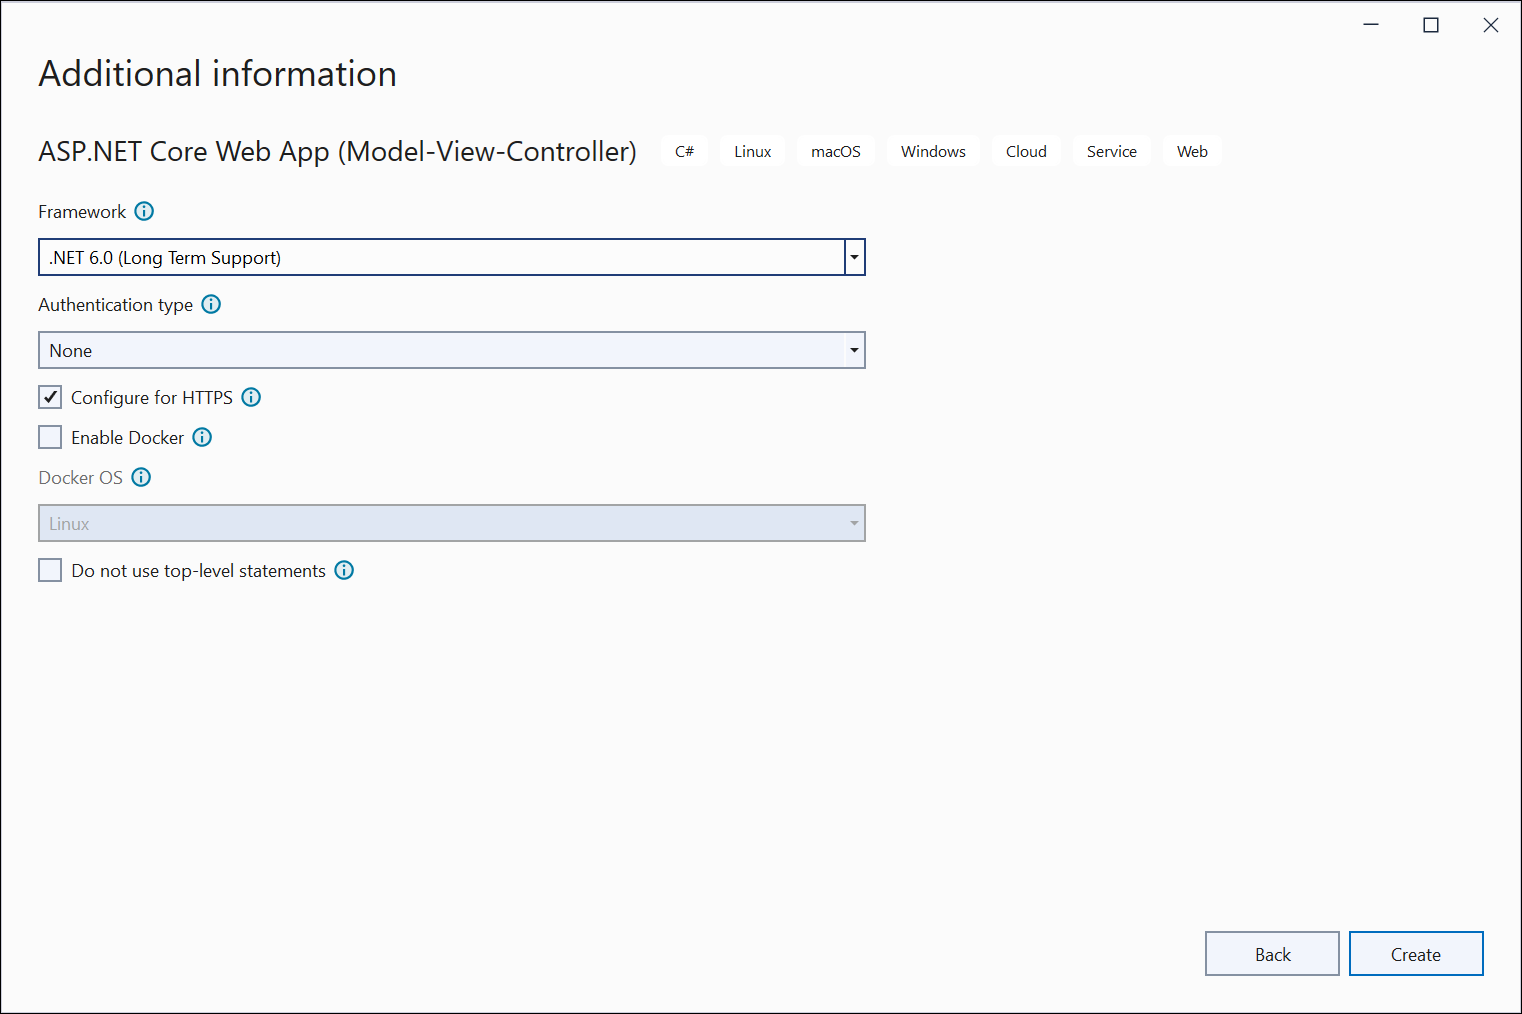
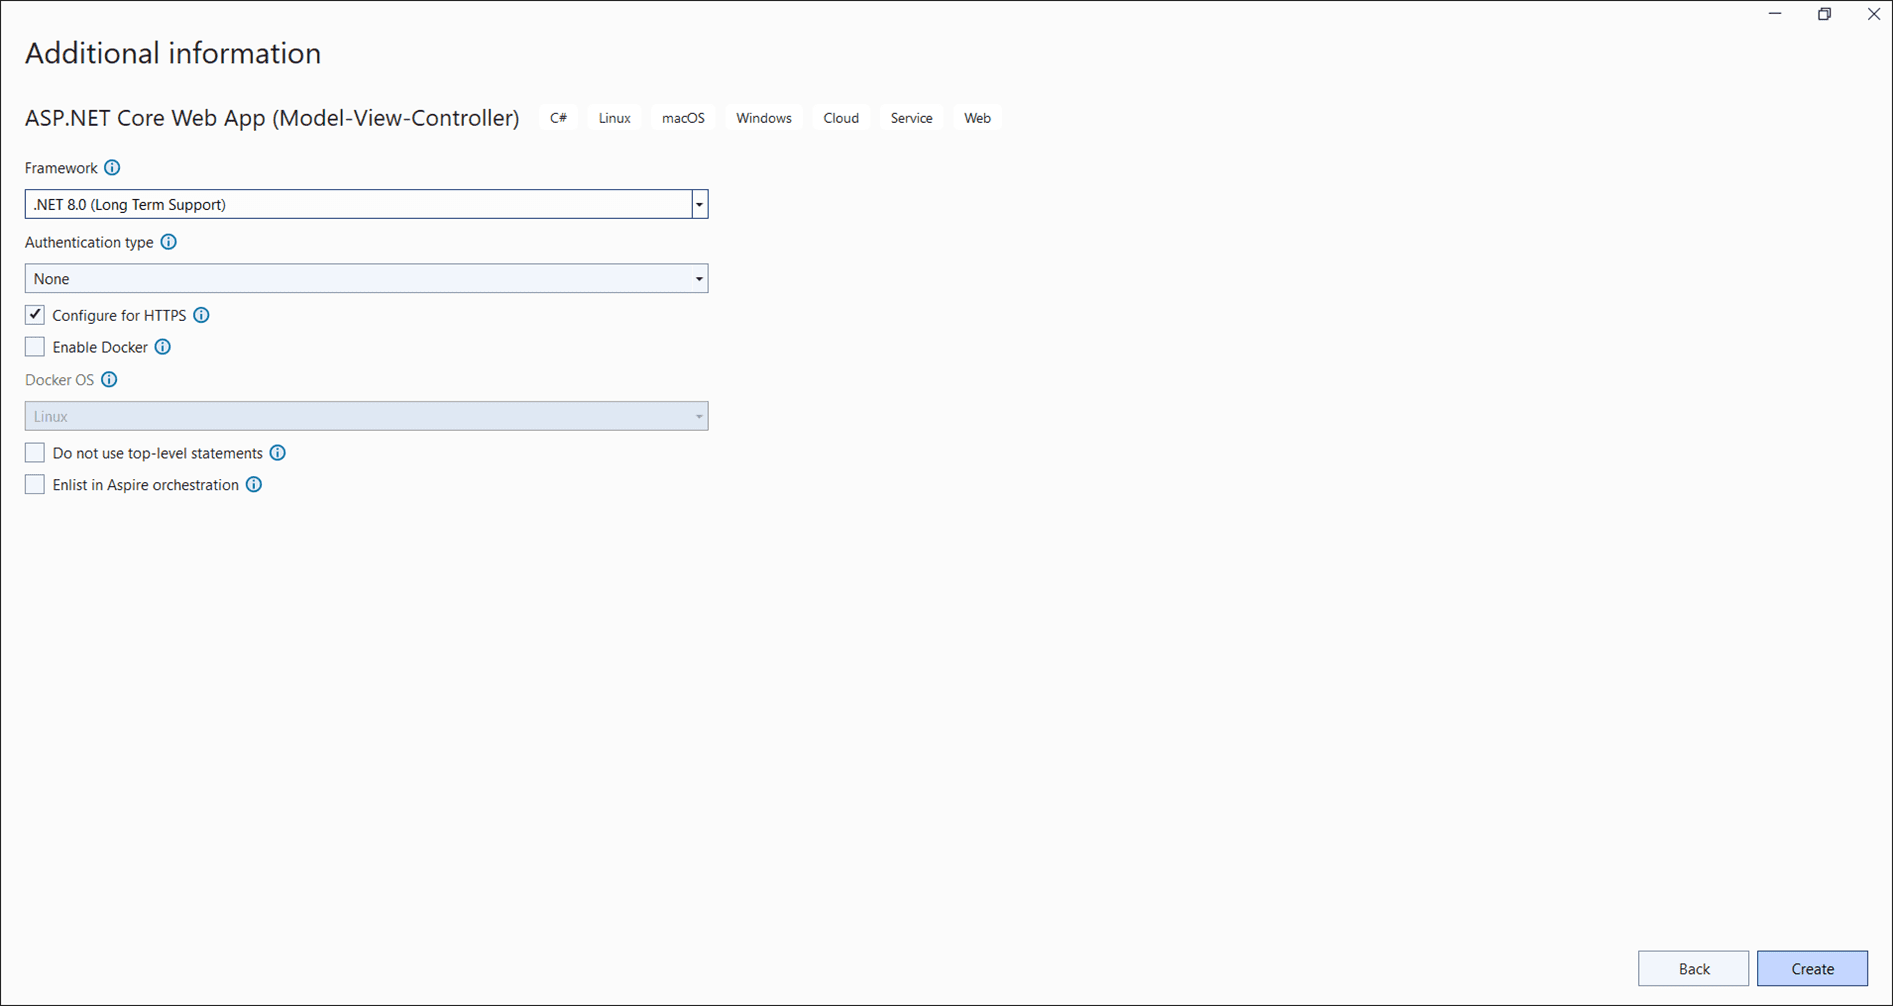
Screen shot changed in the getting started pages.

diff --git a/Document-Processing/Excel/Excel-Library/NET/create-read-edit-excel-files-in-azure-functions-v4.md b/Document-Processing/Excel/Excel-Library/NET/create-read-edit-excel-files-in-azure-functions-v4.md
@@ -19,7 +19,7 @@ Step 2: Name the project.
 
 ![Name the project](Azure-Images/Functions-v4/Name_the_Application_Create.png)
 
-Step 3: Select functions worker as **.NET (6.0) Long Term Support**. 
+Step 3: Select the framework and click Create button. 
 
 ![Select functions worker](Azure-Images/Functions-v4/Functions_Worker.png)
 
